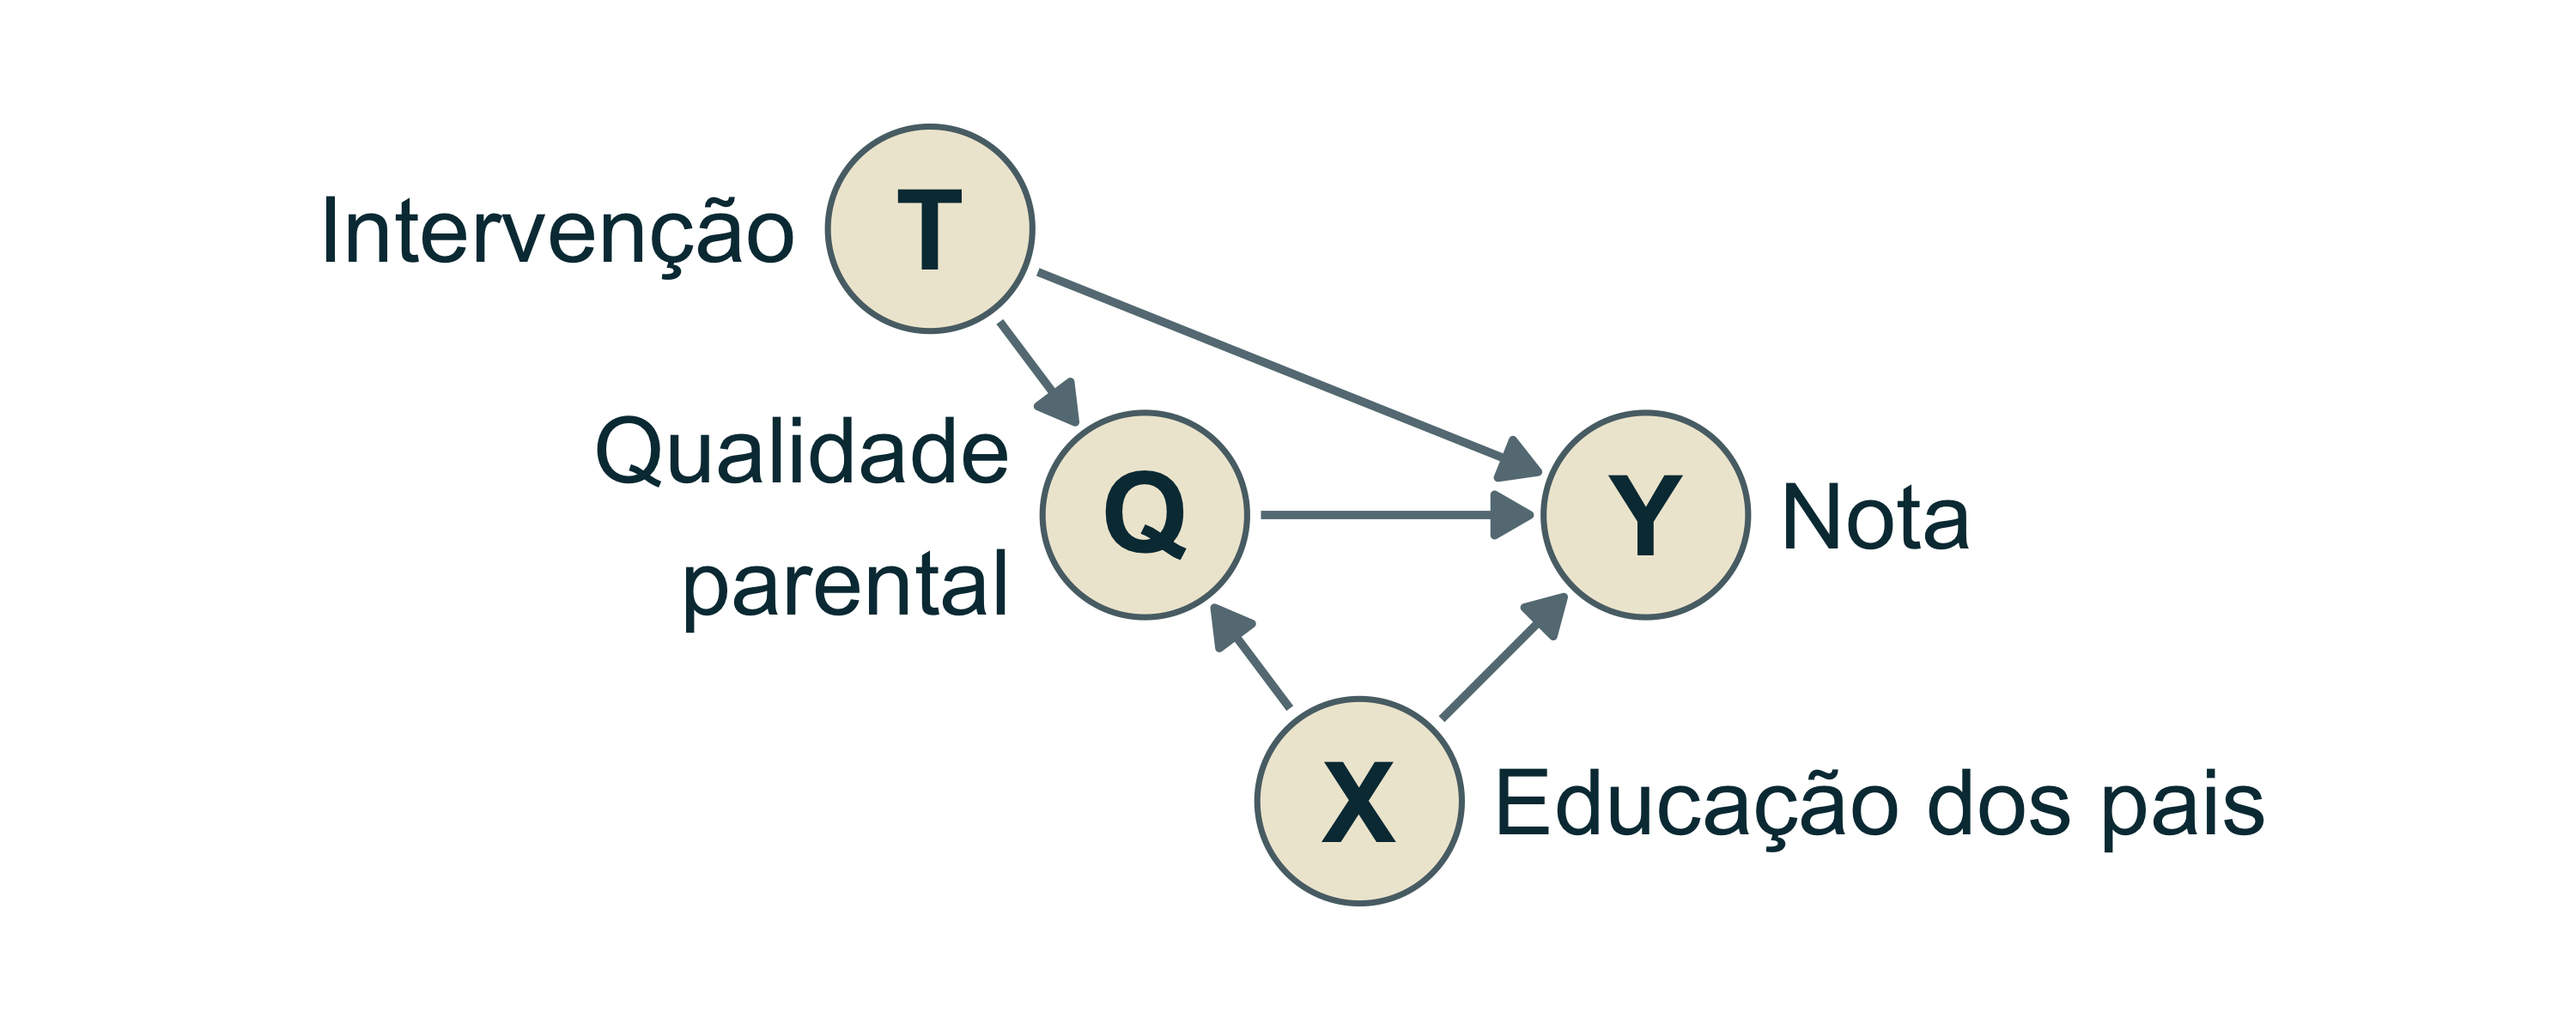
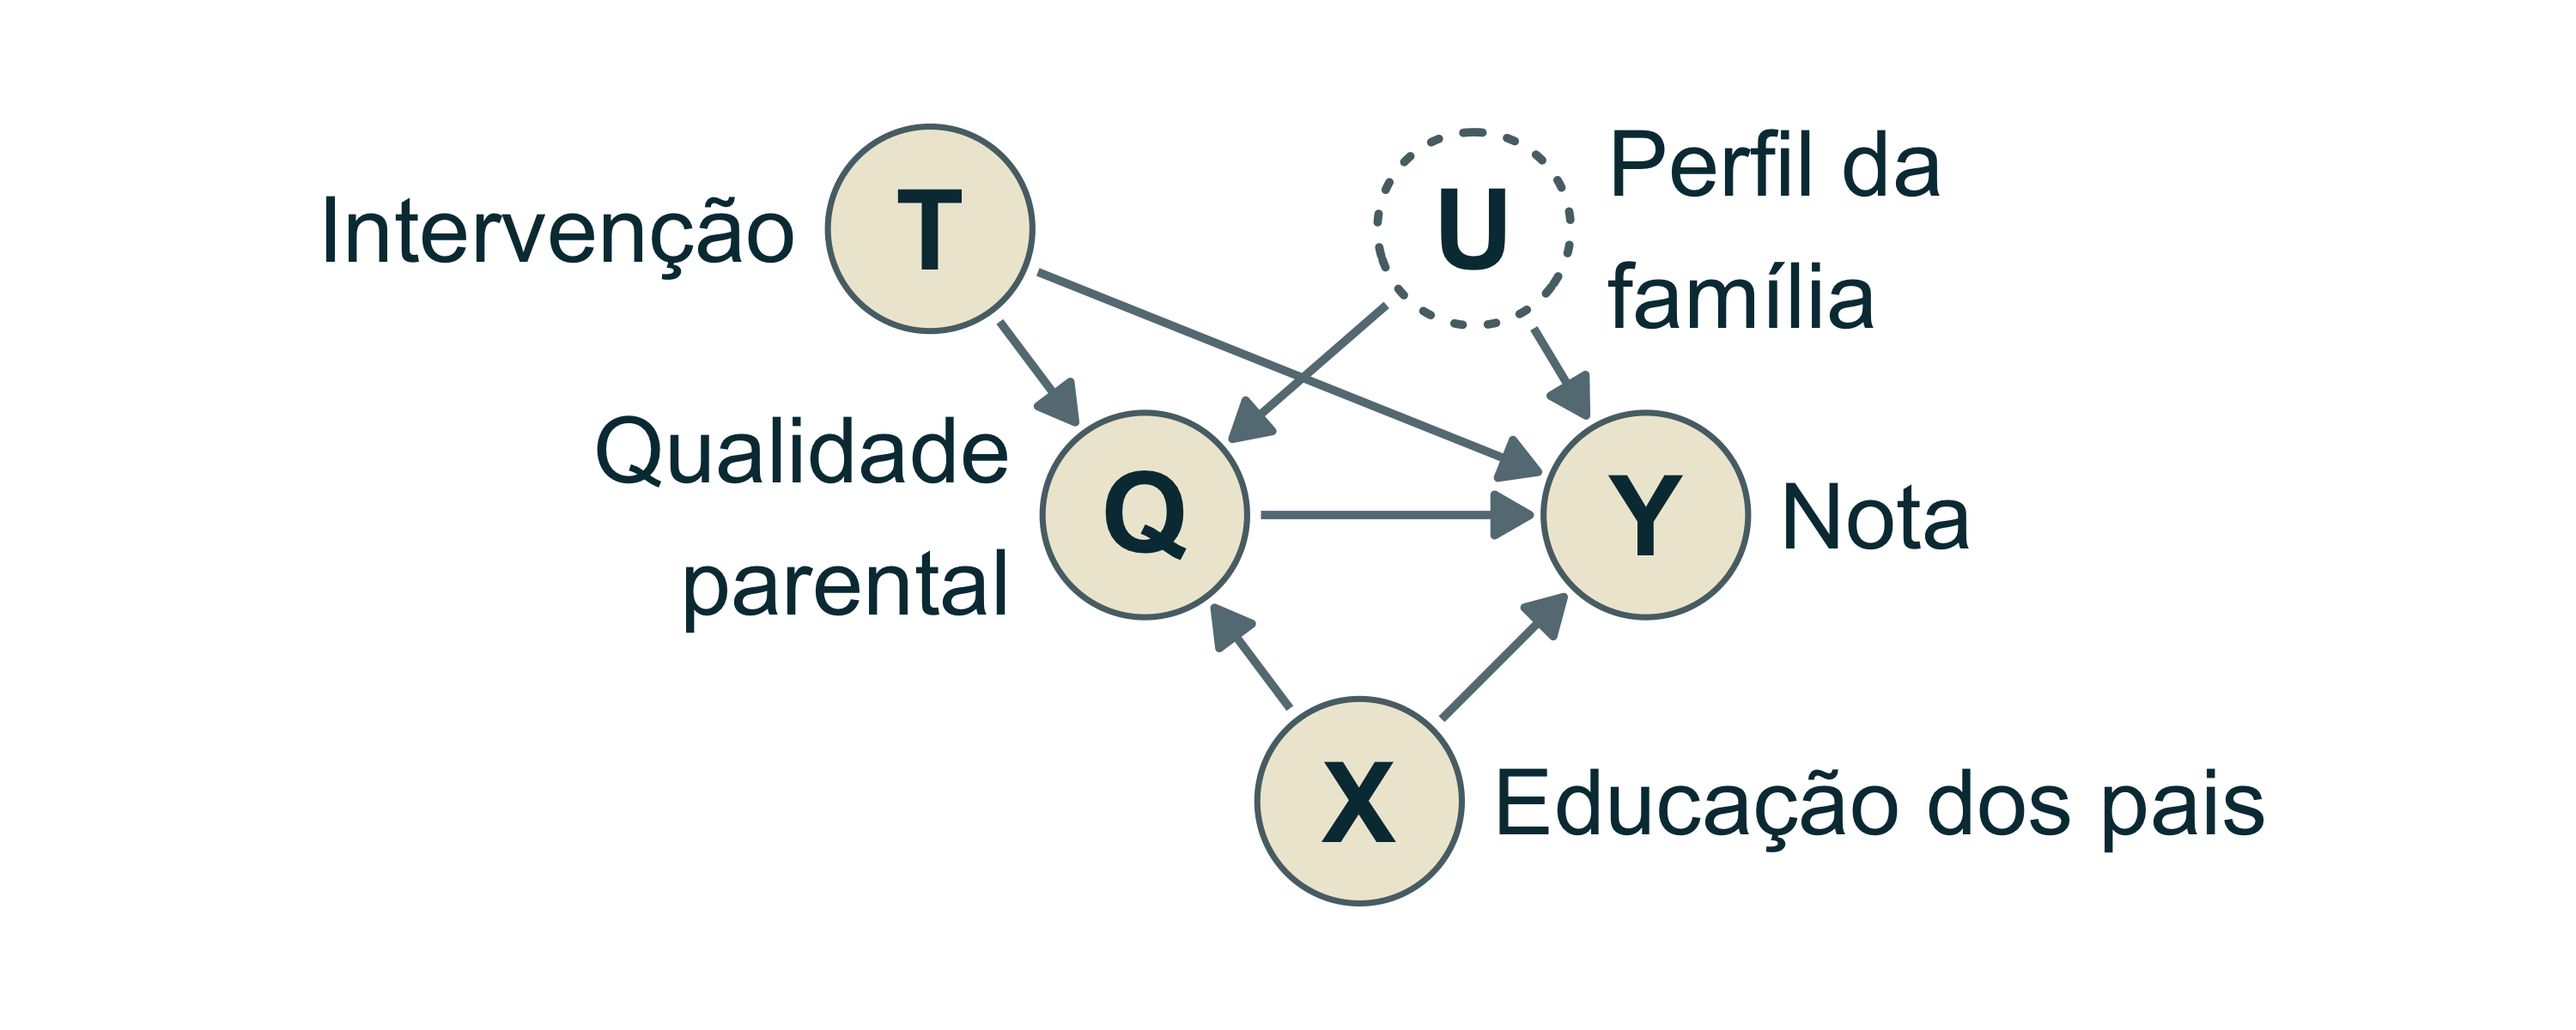
mediadores

diff --git a/Aulas/Aula_Inferencia_Causal_II.html b/Aulas/Aula_Inferencia_Causal_II.html
@@ -55,7 +55,7 @@ class: center, middle, inverse, title-slide
 
 .pull-left[
 - O uso de modelos estatísticos para estimativas de efeitos causais depende de um modelo causal subjacente.
-- O modelo causal pode ser representado por um DAG, que representa um conjunto de hipótese sobre as independências condicionais entre as variáveis.
+- O modelo causal pode ser representado por um DAG, que representa um conjunto de hipóteses sobre as independências condicionais entre as variáveis.
 - Todas as relações contidas nos DAGs podem ser decompostas em 3 tipos de estruturas: **pipes**, **forks** e **colliders**.
 - Cada tipo de relação tem implicações diferentes para o efeito estimado por um modelo estatístico.
 ]
@@ -244,9 +244,32 @@ Ferramentas automatizadas:
 ]
 --
 .pull-right[
-- Variáveis que são Pipes e forks **bloqueiam** caminhos quando incluídas nos modelos.
+- Variáveis que são pipes e forks **bloqueiam** caminhos quando incluídas nos modelos.
 
-- Variáveis que são Colliders **abrem** caminhos quando incluídas nos modelos.
+- Variáveis que são colliders **abrem** caminhos quando incluídas nos modelos.
+]
+
+---
+
+## Aplicando o critério da porta dos fundos
+
+.pull-left[
+- Os caminhos 2 a 5 têm uma seta apontando para `\(X\)`. Os caminhos 2, 3 e 4 estão abertos e precisam ser fechados; o 5 já está fechado.
+
+- Controlar só por `\(Z\)` fecha 2, 3 e 4, mas **abre** o 5, pois `\(Z\)` é um colisor nesse caminho.
+
+- Incluir também `\(A\)` ou `\(B\)` fecha o caminho 5 de novo.
+
+- `\(W\)` é descendente de `\(X\)` e não pode entrar no modelo.
+
+Modelos que estimam o efeito causal de `\(X\)` sobre `\(Y\)`:
+
+- `lm(Y ~ X + Z + A)`
+- `lm(Y ~ X + Z + B)`
+]
+
+.pull-right[
+&lt;img src="Aula_Inferencia_Causal_II_files/figure-html/figura-caminhos-dag-criterio-1.png" alt="" width="100%" style="display: block; margin: auto;" /&gt;
 ]
 
 ---
@@ -316,7 +339,7 @@ Nem todos os coeficientes são estimativas de efeitos causais.
 .pull-right[
 &lt;img src="Aula_Inferencia_Causal_II_files/figure-html/figura-dag-hiv-avc-modelos-1.png" alt="" width="100%" style="display: block; margin: auto;" /&gt;
 
-No modelo completo, só o coeficiente do HIV estima um efeito total. Os coeficientes de Tabagismo e Idade não estimam efeitos causais.
+No modelo completo, só o coeficiente do HIV estima um efeito total. Os coeficientes de Tabagismo e Idade estimam apenas efeitos diretos, não totais.
 ]
 
 ---
@@ -341,12 +364,33 @@ No modelo completo, condicionar no Tabagismo abre o caminho Idade → Tabagismo 
 
 ---
 
+## Quando podemos estimar efeitos diretos?
+
+.pull-left[
+- Para estimar o efeito direto de `\(X\)` sobre `\(Y\)`, condicionamos nos mediadores `\(M\)`. Isso só funciona se:
+    1. os caminhos não causais entre `\(X\)` e `\(Y\)` estão fechados;
+    2. todos os caminhos indiretos `\(X \to M \to Y\)` estão bloqueados;
+    3. **não há confundidor aberto entre `\(M\)` e `\(Y\)`**: condicionar em `\(M\)` abre `\(X \to M \leftarrow U \to Y\)`.
+
+- O efeito total continua estimável com `lm(Y ~ X)`; o efeito direto, não.
+]
+
+.pull-right[
+&lt;img src="Aula_Inferencia_Causal_II_files/figure-html/figura-dag-efeito-direto-1.png" alt="" width="100%" style="display: block; margin: auto;" /&gt;
+
+- **Idade e AVC**: o Tabagismo é mediador e colisor (Idade → Tabagismo ← Álcool).
+- **Intervenção educacional (Aula I)**: o perfil da família afeta a qualidade parental e a nota.
+- **Fragmentação (Aula I)**: a qualidade do habitat pode afetar os predadores (mediador) e a sobrevivência.
+]
+
+---
+
 ## Outras variáveis de controle
 
 .pull-left[
 - Às vezes, não temos nenhum caminho não causal aberto entre `\(X\)` e `\(Y\)`, mas acrescentar variáveis no modelo pode melhorar ou piorar a precisão da estimativa do efeito causal de `\(X\)` sobre `\(Y\)`.
 
-- Pais de `\(Y\)` que não são pais de `\(X\)` podem ser incluídas para reduzir a variância da estimativa do efeito de `\(X\)` sobre `\(Y\)`.
+- Pais de `\(Y\)` que não são pais de `\(X\)` podem ser incluídos para reduzir a variância da estimativa do efeito de `\(X\)` sobre `\(Y\)`.
 
 - No DAG ao lado, incluir `\(Z\)` no modelo não muda a estimativa do efeito de `\(X\)` sobre `\(Y\)`, mas reduz a variância da estimativa.
 

diff --git a/Aulas/Aula_Inferencia_Causal_I.html b/Aulas/Aula_Inferencia_Causal_I.html
@@ -620,6 +620,8 @@ Intervenção de apoio familiar (`\(T\)`), qualidade parental pós-tratamento (`
 
 &lt;img src="Aula_Inferencia_Causal_I_files/figure-html/figura-dag-intervencao-educacao-1.png" alt="" width="80%" style="display: block; margin: auto;" /&gt;
 
+`\(U\)`: perfil da família (não observado), que afeta tanto a qualidade parental quanto a nota.
+
 ---
 
 ## Calculando o efeito causal médio da intervenção
